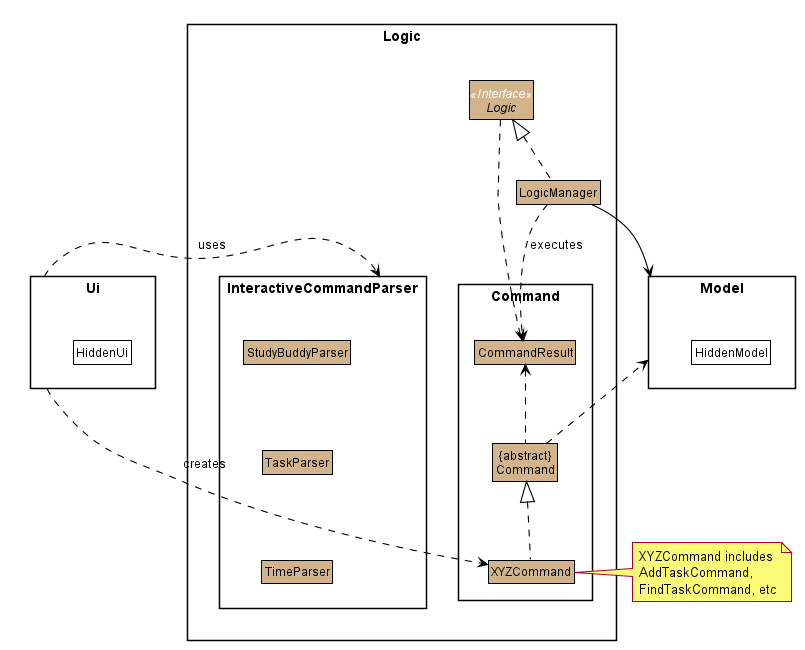
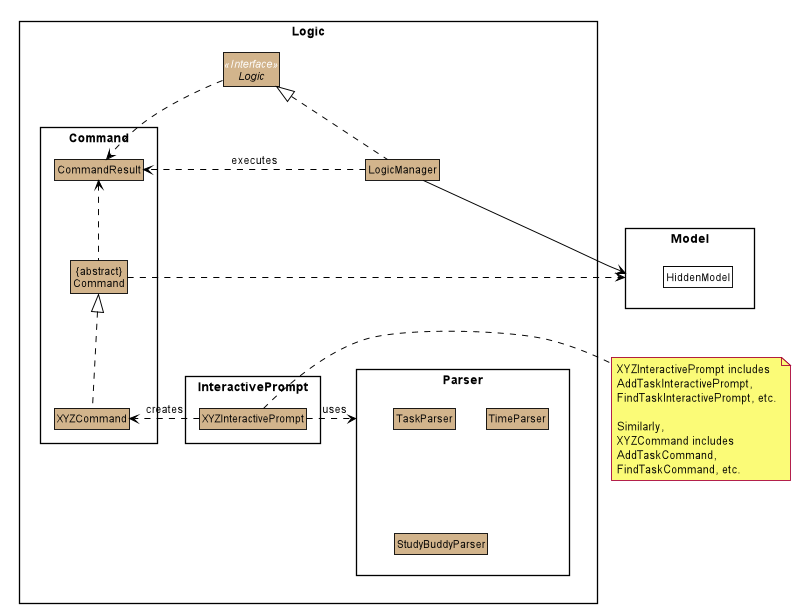
Rebuild pages at 789b4cacb0d8ca3c96364ce37c9d192a868d6914

diff --git a/DeveloperGuide.html b/DeveloperGuide.html
@@ -233,6 +233,9 @@ The following class plays an important role at the architecture level:</p>
 </div>
 <div class="title">Figure 2. Class Diagram of the Logic Component</div>
 </div>
+<div class="paragraph">
+<p>Note: HiddenModel is used to represent the hidden contents of the Model Component.</p>
+</div>
 <h4 id="how-the-architecture-components-interact-with-each-other" class="discrete">How the architecture components interact with each other</h4>
 <div class="paragraph">
 <p>The <em>Sequence Diagram</em> below shows how the components interact with each other for the scenario where the user issues the command <code>delete 1</code>.</p>
@@ -342,7 +345,8 @@ The command execution will only terminate in two scenarios:<br>
 <div class="olist arabic">
 <ol class="arabic">
 <li>
-<p>The <code>InteractiveCommandPrompt</code> in <code>Ui</code> uses the parsers to parse the user command.</p>
+<p>After receiving the user input from Ui, <code>InteractivePrompt</code> processes the user&#8217;s input,
+using the Parsers to parse the command if necessary.</p>
 </li>
 <li>
 <p>This results in a <code>Command</code> object which is executed by the <code>LogicManager</code>.</p>
@@ -1511,12 +1515,6 @@ Step 4: The Productivity Points Tab is displayed to the user</p>
 <p>From here, the user can continue to manage tasks as per Step 5 and 6 above,
 or navigate to other Productivity tabs.</p>
 </div>
-<div class="sect4">
-<h5 id="clicking-the-productivity-menu-item"><a class="link" href="#clicking-the-productivity-menu-item">Clicking the Productivity menu item</a></h5>
-<div class="paragraph">
-<p>image</p>
-</div>
-</div>
 </div>
 <div class="sect3">
 <h4 id="design-considerations-5"><a class="link" href="#design-considerations-5">5.6.3. Design Considerations</a></h4>
@@ -2574,4 +2572,4 @@ for every command.</p>
 </ul>
 </div>
 </div>
-</div></div><div id="footer"><div class="container"><div id="footer-text">Last updated 2020-04-13 12:00:30 UTC</div></div></div></body></html>
+</div></div><div id="footer"><div class="container"><div id="footer-text">Last updated 2020-04-13 12:06:16 UTC</div></div></div></body></html>

diff --git a/ContactUs.html b/ContactUs.html
@@ -13,4 +13,4 @@ Follow the process described <a href="https://github.com/oss-generic/process">he
 <p><strong>Email us</strong> : You can also reach us at <code>e0341280 [at] u.nus.edu</code>, <code>e0365980 [at] gmail.com</code>, <code>e0325702 [at] u.nus.edu</code>, <code>e0325606 [at] u.nus.edu</code></p>
 </li>
 </ul>
-</div></div><div id="footer"><div class="container"><div id="footer-text">Last updated 2020-04-13 12:00:30 UTC</div></div></div></body></html>
+</div></div><div id="footer"><div class="container"><div id="footer-text">Last updated 2020-04-13 12:06:16 UTC</div></div></div></body></html>

diff --git a/UserGuide.html b/UserGuide.html
@@ -3041,4 +3041,4 @@ Unless you are using the <code>unarchive</code> command, use the "Archived list"
 <a href="https://github.com/AY1920S2-CS2103T-W16-3/main/releases" class="bare">https://github.com/AY1920S2-CS2103T-W16-3/main/releases</a></p>
 </div>
 </div>
-</div></div><div id="footer"><div class="container"><div id="footer-text">Last updated 2020-04-13 12:00:30 UTC</div></div></div></body></html>
+</div></div><div id="footer"><div class="container"><div id="footer-text">Last updated 2020-04-13 12:06:16 UTC</div></div></div></body></html>

diff --git a/Testing.html b/Testing.html
@@ -91,4 +91,4 @@ e.g. <code>LogicManagerTest</code></p>
 <div class="title">Figure 1. <code>Accessibility</code> permission is granted to <code>IntelliJ IDEA</code></div>
 </div>
 </div>
-</div></div><div id="footer"><div class="container"><div id="footer-text">Last updated 2020-04-13 12:00:30 UTC</div></div></div></body></html>
+</div></div><div id="footer"><div class="container"><div id="footer-text">Last updated 2020-04-13 12:06:16 UTC</div></div></div></body></html>

diff --git a/SettingUp.html b/SettingUp.html
@@ -186,4 +186,4 @@ Having both Travis and AppVeyor ensures your App works on both Unix-based platfo
 </div>
 </div>
 </div>
-</div></div><div id="footer"><div class="container"><div id="footer-text">Last updated 2020-04-13 12:00:30 UTC</div></div></div></body></html>
+</div></div><div id="footer"><div class="container"><div id="footer-text">Last updated 2020-04-13 12:06:16 UTC</div></div></div></body></html>

diff --git a/UsingTravis.html b/UsingTravis.html
@@ -301,4 +301,4 @@ The <code>run-checks.sh</code> script will automatically pick up and run files n
 </div>
 </div>
 </div>
-</div></div><div id="footer"><div class="container"><div id="footer-text">Last updated 2020-04-13 12:00:30 UTC</div></div></div></body></html>
+</div></div><div id="footer"><div class="container"><div id="footer-text">Last updated 2020-04-13 12:06:16 UTC</div></div></div></body></html>

diff --git a/team/gx-huang.html b/team/gx-huang.html
@@ -553,4 +553,4 @@ The lifeline for every member should end at the destroy marker (X) but due to a 
 </div>
 </div>
 </div>
-</div></div><div id="footer"><div class="container"><div id="footer-text">Last updated 2020-04-13 12:00:31 UTC</div></div></div></body></html>
+</div></div><div id="footer"><div class="container"><div id="footer-text">Last updated 2020-04-13 12:06:16 UTC</div></div></div></body></html>

diff --git a/team/souwmyaa.html b/team/souwmyaa.html
@@ -536,4 +536,4 @@ Calculation of time left for deadline and check for if task is due soon can be f
 </div>
 </div>
 </div>
-</div></div><div id="footer"><div class="container"><div id="footer-text">Last updated 2020-04-13 12:00:31 UTC</div></div></div></body></html>
+</div></div><div id="footer"><div class="container"><div id="footer-text">Last updated 2020-04-13 12:06:16 UTC</div></div></div></body></html>

diff --git a/README.html b/README.html
@@ -107,4 +107,4 @@ This visualisation of data helps students become more aware of their Pending wor
 </ul>
 </div>
 </div>
-</div></div><div id="footer"><div class="container"><div id="footer-text">Last updated 2020-04-13 12:00:30 UTC</div></div></div></body></html>
+</div></div><div id="footer"><div class="container"><div id="footer-text">Last updated 2020-04-13 12:06:16 UTC</div></div></div></body></html>

diff --git a/UsingGradle.html b/UsingGradle.html
@@ -239,4 +239,4 @@ See <code>build.gradle</code> &#8594; <code>allprojects</code> &#8594; <code>dep
 </ul>
 </div>
 </div>
-</div></div><div id="footer"><div class="container"><div id="footer-text">Last updated 2020-04-13 12:00:30 UTC</div></div></div></body></html>
+</div></div><div id="footer"><div class="container"><div id="footer-text">Last updated 2020-04-13 12:06:16 UTC</div></div></div></body></html>

diff --git a/UsingNetlify.html b/UsingNetlify.html
@@ -125,4 +125,4 @@ The publish directory is the directory in which the built HTML documentation res
 </ol>
 </div>
 </div>
-</div></div><div id="footer"><div class="container"><div id="footer-text">Last updated 2020-04-13 12:00:30 UTC</div></div></div></body></html>
+</div></div><div id="footer"><div class="container"><div id="footer-text">Last updated 2020-04-13 12:06:16 UTC</div></div></div></body></html>

diff --git a/index.html b/index.html
@@ -107,4 +107,4 @@ This visualisation of data helps students become more aware of their Pending wor
 </ul>
 </div>
 </div>
-</div></div><div id="footer"><div class="container"><div id="footer-text">Last updated 2020-04-13 12:00:31 UTC</div></div></div></body></html>
+</div></div><div id="footer"><div class="container"><div id="footer-text">Last updated 2020-04-13 12:06:16 UTC</div></div></div></body></html>
